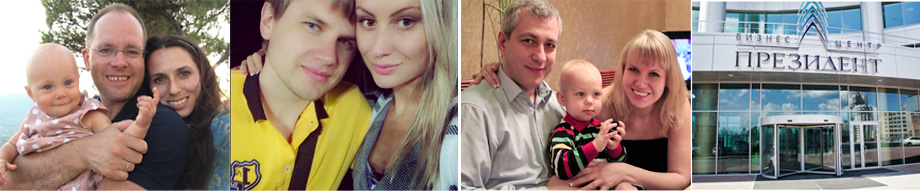
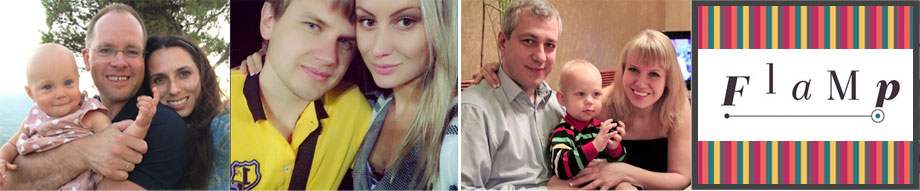
everything except catalog

Changed region(s): [[0.7304, 0.0, 1.0, 0.9948], [0.3348, 0.9948, 0.3652, 1.0]]

diff --git a/index.html b/index.html
@@ -113,49 +113,64 @@
     </div>
   </div>
 
+  <div id="lead1">
+    <div class="wrapper columns">
+      <div class="column lead1-text" style="width: 210px; padding-top: 50px;">
+        <img src="images/iphone.png" style="margin-top:-80px;">
+      </div>
+      <div class="column lead1-text" style="margin-left: 30px; width: 518px; padding-top: 35px; text-align:center;">
+        <div class="big-letters">
+          <span style="color: red">Получи iPhone 6*</span><br>за покупку дверей<br>до 28 февраля!
+        </div>
+        <div class="little-letters">*пожалуйста, узнавайте все подробности у менеджеров</div>
+      </div>
+      <div class="column lead1-form" style="height:361px; margin-top:2px; width:242px; background-color:#858585; text-align: center; color: white; padding-top:0px;">
+        <div style="font-size: 18px; margin-top: 80px; margin-bottom: 15px; font-weight: 400;">Отправить заявку<br>на участие в акции<br></div>
+        <input type="text" class="form-input form-name" id="main-name" placeholder="Ваше имя" ng-model="names['catalog']"></input>
+        <input type="text" input-mask class="form-input form-phone" id="main-phone" placeholder="Ваш телефон" ng-model="phones['catalog']"></input>
+        <input type="button" id="main-name" class="button button-red" value="ХОЧУ УЧАСТВОВАТЬ!" style="margin-top: 15px;" ng-click="sendData(this,'Запрос каталога','catalog')"></input>
+      </div>
+    </div>
+  </div>
+
   <div id="advances">
     <div class="wrapper columns">
       <div class="title">ПРЕИМУЩЕСТВА ДВЕРЕЙ SINERGY</div>
-      <div class="column" class="advances-list" style="margin-left: 25px; width: 310px">
-        <div class="advance" style="height:175px;">
-          <div class="advance-icon" style="background-position: 0px -40px;height:35px;"></div>
-          <div class="advance-title">Открывание в любую сторону</div>
-          <div class="advance-subtitle">Слева на право и справа на лево. Определяется в момент установки.</div>
-        </div>
-        <div class="advance" style="height:220px;">
-          <div class="advance-icon" style="background-position: -40px -40px;height: 48px;"></div>
-          <div class="advance-title">Многослойный материал CPL (пластик низкого давления)</div>
-          <div class="advance-subtitle">Устойчив к царапинам, влаге и высоким температурам. Подходит для ванных комнат!</div>
+      <div class="column" class="advances-list" style="margin-left: 0px; width: 335px">
+        <div class="advance">
+          <div class="advance-icon" style="background-position: 0px 0px;"></div>
+          <div class="advance-title">Полотно царговой конструкции</div>
+          <div class="advance-subtitle">Придаёт двери дополнительную прочность,<br>исключая деформацию дверного полотна.</div>
         </div>
         <div class="advance">
-          <div class="advance-icon" style="background-position: -80px -40px;height:44px;"></div>
-          <div class="advance-title">Замок и петли установлены в заводских условиях</div>
-          <div class="advance-subtitle">– существенно влияет на качество установки<br>– снижает стоимость установки</div>
+          <div class="advance-icon" style="background-position: 0px -75px;"></div>
+          <div class="advance-title">Тепло и барьер для запахов</div>
+          <div class="advance-subtitle">Уплотнитель по всему периметру дверной<br>коробки сохраняет тепло и препятствует<br>проникновению посторонних запахов.</div>
+        </div>
+        <div class="advance">
+          <div class="advance-icon" style="background-position: 0px -150px;"></div>
+          <div class="advance-title">ПВХ-покрытие</div>
+          <div class="advance-subtitle">Не выгорает под прямыми лучами, устойчиво к<br>царапинам и влаге. Подходит для ванных комнат.</div>
         </div>
       </div>
       <div class="column advances-picture">
         <img src="images/advances-door.jpg"/>
       </div>
-      <div class="column" class="advances-list" style="margin-left:80px; width:265px;">
-        <div class="advance" style="height: 144px;">
-          <div class="advance-icon" style="background-position: 0px 0px;"></div>
-          <div class="advance-title">Тепло и тихо!</div>
-          <div class="advance-subtitle">Утеплитель - по всему периметру коробки.</div>
+      <div class="column" class="advances-list" style="margin-left:30px; width:315px;">
+        <div class="advance">
+          <div class="advance-icon" style="background-position: -105px 0px;"></div>
+          <div class="advance-title">Открывание в любую сторону</div>
+          <div class="advance-subtitle">Сторона открывания определяется в момент<br>установки.</div>
         </div>
-        <div class="advance" style="height: 144px;">
-          <div class="advance-icon" style="background-position: -40px 0px;height: 36px;"></div>
-          <div class="advance-title">3х-сторонний фальц</div>
-          <div class="advance-subtitle">Закрывает все возможные зазоры между коробкой и дверью.</div>
+        <div class="advance">
+          <div class="advance-icon" style="background-position: -105px -75px;"></div>
+          <div class="advance-title">Эстетичный вид</div>
+          <div class="advance-subtitle">Коробка телескоп позволяет оформлять дверной<br>проем без применения дополнительных<br>крепежей гвоздей и шурупов.</div>
         </div>
-        <div class="advance" style="height: 144px;">
-          <div class="advance-icon" style="background-position: -80px 0px;height: 38px;"></div>
-          <div class="advance-title">Ударопрочная кромка</div>
-          <div class="advance-subtitle">Надежно защищает торцы. Прочное покрытие лаками UV отвержения.</div>
-        </div>
-        <div class="advance" style="height: 144px;">
-          <div class="advance-icon" style="background-position: -120px 0px;height: 38px;"></div>
-          <div class="advance-title">Экологичность материала</div>
-          <div class="advance-subtitle">Нет запаха и токсичных выделений. Безопасны для вашего дома.</div>
+        <div class="advance">
+          <div class="advance-icon" style="background-position: -105px -150px;"></div>
+          <div class="advance-title">Бесшумная эксплуатация</div>
+          <div class="advance-subtitle">Специальное крепление стекла обеспечивает<br>отсутствие дребезжания при эксплуатации двери.</div>
         </div>
       </div>
     </div>
@@ -185,22 +200,6 @@
         <div class="column" style="width: 340px; text-align: center;">
           ЛЕВОЕ ОТКРЫВАНИЕ
         </div>
-      </div>
-    </div>
-  </div>
-
-  <div id="lead-old">
-    <div class="wrapper columns">
-      <div class="column lead-old-text" style="width: 210px; padding-top: 50px;">
-      </div>
-      <div class="column lead1-text" style="width: 570px; padding-top: 35px; text-align:center;">
-        ЗАКАЖИТЕ БЕСПЛАТНЫЙ<BR>КАТАЛОГ ПО ПОЧТЕ<br><br>ИЛИ
-      </div>
-      <div class="column lead-old-form">
-        <input type="text" class="form-input form-name" id="main-name" placeholder="Ваше имя" ng-model="names['catalog']"></input>
-        <input type="text" input-mask class="form-input form-phone" id="main-phone" placeholder="Ваш телефон" ng-model="phones['catalog']"></input>
-        <input type="text" class="form-input form-mail" id="main-mail" placeholder="Ваш e-mail" ng-model="emails['catalog']"></input>
-        <input type="button" id="main-name" class="button button-yellow" value="ЗАКАЗАТЬ КАТАЛОГ" ng-click="sendData(this,'Запрос каталога','catalog')"></input>
       </div>
     </div>
   </div>
@@ -237,47 +236,20 @@
     </div>
   </div>
 
-  <div id="lead1-anchor" style="position:relative; margin-top:-35px; height:35px"></div>
-  <!-- <div id="discount">
-    <div class="wrapper">
-      <div class="discount-title">ТОЛЬКО В ДЕКАБРЕ</div>
-      <div class="discount-subtitle">СКИДКА 2015 руб. С КАЖДОГО КОМПЛЕКТА ДВЕРЕЙ*</div>
-      <div class="columns">
-        <div class="column for-you">
-          Для вас мы:
-          <ul>
-            <li>Организуем доставку</li>
-            <li>Выполним установку</li>
-            <li>Произведем сборку</li>
-          </ul>
-        </div>
-        <div class="column" style="float: right;margin-top:25px;margin-right: 75px;">
-          <div class="cloudy discount-form">
-            Оставить заявку на участие в акции
-            <input type="text" class="form-input form-name" id="main-name" placeholder="Ваше имя" ng-model="names['discount']"></input>
-            <input type="text" input-mask class="form-input form-phone" id="main-phone" placeholder="Ваш телефон" ng-model="phones['discount']"></input>
-            <input type="button" id="main-name" class="button button-yellow" value="УЧАСТВОВАТЬ В АКЦИИ!" ng-click="sendData(this,'акция','discount')"></input>
-          </div>
-        </div>
-      </div>
-    </div>
-  </div> -->
-  <div id="lead1">
+  <!-- <div id="discount-anchor" style="position:relative; margin-top:-35px; height:35px"></div> -->
+  <div id="lead-old">
     <div class="wrapper columns">
-      <div class="column lead1-text" style="width: 210px; padding-top: 50px;">
-        <img src="images/iphone.png" style="margin-top:-80px;">
+      <div class="column lead-old-text" style="width: 220px;">
+        <img src="images/big-catalog.png" style="margin-top: -35px;"/>
       </div>
-      <div class="column lead1-text" style="margin-left: 30px; width: 518px; padding-top: 35px; text-align:center;">
-        <div class="big-letters">
-          <span style="color: red">Получи iPhone 6*</span><br>за покупку дверей<br>до 28 февраля!
-        </div>
-        <div class="little-letters">*пожалуйста, узнавайте все подробности у менеджеров</div>
+      <div class="column lead-old-text" style="width: 490px; padding-top: 55px; text-align:center; font-weight:700; color: black;">
+        ЗАКАЖИТЕ ПОЛНЫЙ<BR>КАТАЛОГ ПО ПОЧТЕ
       </div>
-      <div class="column lead1-form" style="height:361px; margin-top:2px; width:242px; background-color:#858585; text-align: center; color: white; padding-top:0px;">
-        <div style="font-size: 18px; margin-top: 80px; margin-bottom: 15px; font-weight: 400;">Отправить заявку<br>на участие в акции<br></div>
+      <div class="column lead-old-form">
         <input type="text" class="form-input form-name" id="main-name" placeholder="Ваше имя" ng-model="names['catalog']"></input>
         <input type="text" input-mask class="form-input form-phone" id="main-phone" placeholder="Ваш телефон" ng-model="phones['catalog']"></input>
-        <input type="button" id="main-name" class="button button-red" value="ХОЧУ УЧАСТВОВАТЬ!" style="margin-top: 15px;" ng-click="sendData(this,'Запрос каталога','catalog')"></input>
+        <input type="text" class="form-input form-mail" id="main-mail" placeholder="Ваш e-mail" ng-model="emails['catalog']"></input>
+        <input type="button" id="main-name" class="button button-yellow" value="ЗАКАЗАТЬ КАТАЛОГ!" ng-click="sendData(this,'Запрос каталога','catalog')"></input>
       </div>
     </div>
   </div>
@@ -289,24 +261,18 @@
       <div class="review" ng-repeat="review in reviews">
         <div class="review-photo">
           <div class="review-face" ng-style="{'background-position': review.pic.position}"></div>
-          <div ng-bind-html="showHtml(review.pic.descr)" class="comment"></div>
         </div>
-        <div class="review-text" ng-bind-html="showHtml(review.text)"></div>
-        <div class="review-ad">
-          <div class="ad-pics">
-            <img ng-src="images/интерьеры/{{review.ad.cover_pic}}" class="cover-pic" />
-            <div class="small-pics">
-              <img ng-src="images/интерьеры/{{small_pic}}" ng-repeat="small_pic in review.ad.pics" ng-click="review.ad.cover_pic = small_pic"/>
-            </div>
-          </div>
-          <div class="ad-text">
-            <div ng-bind-html="showHtml(review.ad.text)" class="review-ad-text"></div>
-            <input type="button" class="button button-yellow" value="Хочу так же!" ng-click="openLeadPopup('Запрос интерьера, как у '+review.pic.descr)">
+        <div class="review-text">
+          <div class="vertical-center">
+            <div class="review-title" ng-bind-html="showHtml(review.pic.descr)"></div>
+            <div class="review-review" ng-bind-html="showHtml(review.text)"></div>
           </div>
         </div>
       </div>
-
+      <div class="clear" style="clear: both;"></div>
+      <div class="title" style="font-size: 20px; margin-top: 30px; margin-bottom: 25px;">Если вы хотите оставить свой отзыв, звоните нам по телефону <a href="tel: +73432882684" style="color: black !important;">+7 (343) 288-26-84</a></div>
     </div>
+
     <div class="clear" style="clear: both;"></div>
   </div>
 

diff --git a/angular-controllers.js b/angular-controllers.js
@@ -153,9 +153,9 @@ dveri.controller('MainCtrl', function ($scope, $sce, $location, $http) {
     {
       pic: {
         position: "0px 0px", 
-        descr: "Жуковы Александр, Надежда<br>и маленькая Антонина"
+        descr: "Жуковы Александр, Надежда и маленькая Антонина / 23.06.2014"
       },
-      text: "Мы заказали в Краснодеревщике все двери в квартиру, а так же входную дверь.<br><br>Интерьер у нас светлый, поэтому мы выбрали выбеленный дуб, который обманчиво кажется марким, а на самом деле очень практичный - Тоня проверяет его на прочность каждый день.<br><br>Дверями очень довольны!",
+      text: "Мы заказали в Краснодеревщике все двери в квартиру, а так же входную дверь. Интерьер у нас светлый, поэтому мы выбрали выбеленный дуб, который обманчиво кажется марким, а на самом деле очень практичный - Тоня проверяет его на прочность каждый день. Дверями очень довольны!",
       ad: {
         cover_pic: "жуковы/жуковы 1.jpg",
         pics: ["жуковы/жуковы 1.jpg", "жуковы/жуковы 2.jpg", "жуковы/жуковы 4.jpg"],
@@ -165,9 +165,9 @@ dveri.controller('MainCtrl', function ($scope, $sce, $location, $http) {
     {
       pic: {
         position: "-230px 0px", 
-        descr: "Бычковы Александр и Юлия"
+        descr: "Бычковы Александр и Юлия / 07.09.2014"
       },
-      text: "Отличный вариант по цене и качеству 3000 серии дверей + подход к работе с клиентами! Не мало важный момент, оплата по банковской карте и частями, пока идет товар.<br><br>Сделали замеры  и доставили в срок, только сама отделка квартиры затянулась, но дождался  времени установки))) и мастера очень порадовали, особенно Александр!",
+      text: "Отличный вариант по цене и качеству + подход к работе с клиентами! Не мало важный момент, оплата по банковской карте и частями, пока идет товар. Сделали замеры  и доставили в срок, только сама отделка квартиры затянулась, но дождался  времени установки))) и мастера очень порадовали, особенно Александр!",
       ad: {
         text: "Межкомнатные деври Краснодеревщик, серия 3000, модель 33.52, цвет черный дуб.<br>Стоимость 4 комплектов дверей со скидкой 42 843 руб.",
         cover_pic: "бычковы/IMG_6723.JPG",
@@ -177,9 +177,9 @@ dveri.controller('MainCtrl', function ($scope, $sce, $location, $http) {
     {
       pic: {
         position: "-460px 0px", 
-        descr: "Влащицкие Дмитрий, Светлана<br>и Василий"
+        descr: "Влащицкие Дмитрий, Светлана и Василий / 19.11.2014"
       },
-      text: "В Краснодеревщик обращались 2 раза, и оба раза остались довольны! Двери качественные, монтировали Александр и Сергей. Им особая благодарность, к установке подошли основательно, не спешили, каждую мелочь обговаривали с нами! <br><br>Двери смотрятся богато! Очень понравились замки на последних дверях (закрываются мягко-не хлопают!). В общем двери классные! Обслуживание отличное! Монтаж качественный!<br>Всем рекомендую!",
+      text: "В Краснодеревщик обращались 2 раза, и оба раза остались довольны! Двери качественные, монтировали Александр и Сергей. Им особая благодарность, к установке подошли основательно, не спешили, каждую мелочь обговаривали с нами! Двери смотрятся богато! Очень понравились замки на последних дверях (закрываются мягко-не хлопают!). В общем двери классные! Обслуживание отличное! Монтаж качественный! Всем рекомендую!",
       ad: {
         text: "Межкомнатные деври Краснодеревщик, серия 3000, модели 33.24 и 33.23, цвет грецкий орех.<br>Стоимость 12 комплектов дверей со скидкой 130 542 руб.",
         cover_pic: "влащитские/IMG_6696.JPG",
@@ -189,14 +189,9 @@ dveri.controller('MainCtrl', function ($scope, $sce, $location, $http) {
     {
       pic: {
         position: "-691px 0px", 
-        descr: "Бизнес-центр «Президент»"
+        descr: "Олег (отзыв с flam.ru) / 14.01.2015"
       },
-      text: "Бизнес-центр премиум класса «Президент» полностью укомплектован продукцией Краснодеревщик - от межкомнатных дверей в таулеты и офисы до специальных противопожарных дверей.",
-      ad: {
-        text: "Двери для бизнес-центров и офисных помещений выполняются под<br>заказ, каждый проект рассчитывается индивидуально.",
-        cover_pic: "президент/IMG_6710.JPG",
-        pics: ["президент/IMG_6710.JPG", "президент/IMG_6713.JPG", "президент/IMG_6714.JPG"]
-      }
+      text: "Хочу поблагодарить сотрудников компании Краснодеревщик, заказ оформили давно, но только недавно завершили ремонт и пришло время дверей. Монтажники дверей профессионально произвели установку, за собой убрали мелкий мусор. Качественно выполнили работу. Все очень нравится. Еще обратимся к вам!!!!"
     }
   ]
 

diff --git a/style.css b/style.css
@@ -353,7 +353,7 @@ input[type='button'] {
 #lead1 {
   height: 365px;
   background-color: black;
-  margin-bottom: 20px;
+  margin-bottom: 90px;
 }
 
 .lead1-text {
@@ -385,18 +385,21 @@ input[type='button'] {
 
 #lead-old {
   height: 180px;
-  background-color: #453122;
+  background: url(images/catalog-background.jpg);
+  margin-top:40px;
+  margin-bottom: 40px;
 }
 
-.lead1-old-text {
+.lead-old-text {
   height: 115px;
   display: table-cell;
   vertical-align: middle;
   font-size: 26px;
-  color: #fff;
+  background: url(images/catalog-back2.png) no-repeat;
+  background-position: 38px 43px;
 }
 
-.lead1-old-form {
+.lead-old-form {
   padding-top:4px;
 }
 
@@ -423,15 +426,19 @@ input[type='button'] {
 }
 
 .advance-title {
-  width: 260px;
+  width: 290px;
   font-size: 18px;
   font-weight: 700;
-  margin-bottom: 8px;
+  margin-bottom: 0px;
+}
+
+.advance {
+  height:200px;
 }
 
 .advance-subtitle {
-  width: 250px;
-  font-size: 14px;
+  width: 315px;
+  font-size: 13px;
   font-weight: 400;
   color: #616161;
   margin-bottom: 20px;
@@ -439,9 +446,11 @@ input[type='button'] {
 }
 
 .advance-icon {
-  width: 40px;
-  height: 40px;
+  width: 105px;
+  height: 78px;
   background: url("images/advances-icons.png") no-repeat;
+  margin-bottom: 5px;
+  margin-left: 80px;
 }
 
 #opening-types {
@@ -645,10 +654,48 @@ input[type='button'] {
 }
 
 .review-text {
-  width: 295px;
+  width: 730px;
   float: left;
-  padding-left: 10px;
-  padding-right: 10px;
+  padding-left: 20px;
+  padding-right: 20px;
+  margin-top:25px;
+  height: 140px;
+  background-color: #ffcdae;
+  display: table;
+}
+
+.review:nth-child(2n) .review-text {
+  -webkit-border-top-right-radius: 20px;
+  -webkit-border-bottom-right-radius: 20px;
+  -moz-border-radius-topright: 20px;
+  -moz-border-radius-bottomright: 20px;
+  border-top-right-radius: 20px;
+  border-bottom-right-radius: 20px;
+}
+
+.review:nth-child(2n-1) .review-text {
+  -webkit-border-top-left-radius: 20px;
+  -webkit-border-bottom-left-radius: 20px;
+  -moz-border-radius-topleft: 20px;
+  -moz-border-radius-bottomleft: 20px;
+  border-top-left-radius: 20px;
+  border-bottom-left-radius: 20px;
+}
+
+.vertical-center {
+  display: table-cell;
+  vertical-align: middle;
+}
+
+.review-review {
+  font-weight: 400;
+  font-size: 14px;
+}
+
+.review-title {
+  font-size: 18px;
+  font-weight: 700;
+  margin-bottom: 15px;
 }
 
 .review-ad {
